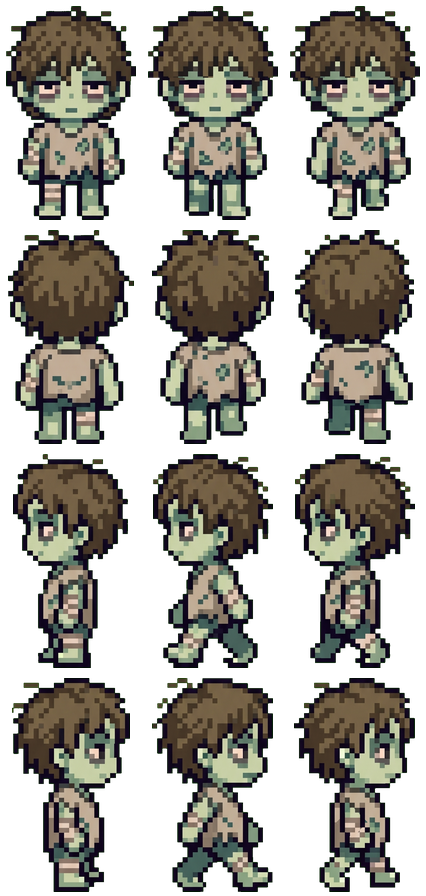
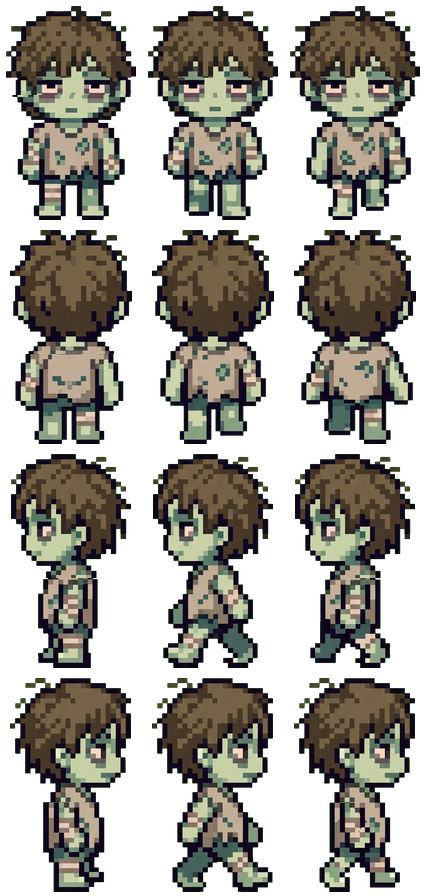
fix(hidden): 좀비 머리카락이 프레임마다 왔다갔다하던 문제 - 머리 고정
대표 지적: 좀비 걸을 때 머리카락이 왔다갔다 한다.

원인 두 가지가 겹침.
1) AI 시트라 프레임마다 머리카락을 다르게 그렸다(삐친 가닥이 생겼다 없어짐).
   실측 머리부 프레임 불일치: 정면 1186 / 뒤 3900 / 옆 2354·2312 픽셀.
   정면은 거의 동일하고 뒤·옆 정수리가 특히 심했다.
2) extract_hidden.py가 셀마다 자기 bbox로 중앙정렬 → 머리카락 한 가닥 때문에
   프레임 전체가 좌우로 밀린다(머리 폭이 프레임 간 최대 9px 흔들림).

- char/freeze_head_frames.py 신규: 3x4 시트의 머리 영역을 기준 프레임 하나로 통일.
  행별 cut을 다르게 준다 — 정면은 팔이 y95 아래에서 흔들려 얕게(95),
  뒤·옆은 팔 움직임이 y150부터라 깊게(130) 잘라도 손해가 없다.
- 좀비 적용 결과: 머리부 불일치 [1186,3900,2354,2312] → [896,168,110,94].
  (896은 정면 팔 흔들림 = 정상) 다리 애니메이션은 그대로 유지됨을 수치로 확인.
- hidden_zombie.png ?v=1 → ?v=2.

※ 교주(cult)·소믈리에(somm)도 같은 증상 있음: 머리부 불일치
  cult [390,788,1642,1356] / somm [844,1142,654,1638]. 대표 확인 후 같은 도구로 처리 예정.
sw v238→v239, cache-bust v20260727014.

diff --git a/index.html b/index.html
@@ -1,5 +1,5 @@
 <!DOCTYPE html>
-<!-- cache-bust: v20260727013 -->
+<!-- cache-bust: v20260727014 -->
 <html lang="ko">
 <head>
 <meta charset="UTF-8">
@@ -2002,7 +2002,7 @@ window._CHAR_BODIES = {
   // 히든 3종(고정 캐릭터). 해금=users.hiddenChars, 소유 판정은 mwHasHidden. 실제 발동/연출은 mwEvalHidden/mwHiddenReveal.
   cult:   { name: '요일교 교주',   src: "char/hidden_cult.png?v=1",   cw: 135, ch: 224, hidden: true, limited: true, tag: '히든' },
   somm:   { name: '헬스장 소믈리에', src: "char/hidden_somm.png?v=1",   cw: 133, ch: 224, hidden: true, limited: true, tag: '히든' },
-  zombie: { name: '작심삼일 좀비',  src: "char/hidden_zombie.png?v=1", cw: 142, ch: 224, hidden: true, limited: true, tag: '히든' }
+  zombie: { name: '작심삼일 좀비',  src: "char/hidden_zombie.png?v=2", cw: 142, ch: 224, hidden: true, limited: true, tag: '히든' }
 };
 window.CHAR_ITEMS = [
   // 헤어: hatVariants = 모자 착용 시 대체 시트(푹 눌러쓴 비니 밖으로 뒷머리만 빼꼼). null = 완전히 숨김(짧은 머리)

diff --git a/sw.js b/sw.js
@@ -1,7 +1,7 @@
 // 배포마다 이 버전을 올려야 자동 새버전 적용(새로고침)이 동작함
-const CACHE_NAME = 'murpy-v238';
-const STATIC_CACHE = 'murpy-static-v238';
-const CDN_CACHE = 'murpy-cdn-v238';
+const CACHE_NAME = 'murpy-v239';
+const STATIC_CACHE = 'murpy-static-v239';
+const CDN_CACHE = 'murpy-cdn-v239';
 // 이미지 캐시는 버전 안 붙임 → 코드/HTML 배포해도 유지(URL이 곧 버전)
 const IMG_CACHE = 'murpy-img';
 

diff --git a/char/freeze_head_frames.py b/char/freeze_head_frames.py
@@ -1,0 +1,95 @@
+# -*- coding: utf-8 -*-
+"""3x4 걷기 시트에서 '머리(윗부분)'를 기준 프레임 하나로 고정한다.
+
+왜 필요한가:
+  AI가 만든 도트 시트는 프레임마다 머리카락을 조금씩 다르게 그린다. 삐친 머리 한 가닥이
+  생겼다 없어지면서 재생 시 머리가 왔다갔다 한다(대표 지적 7-27, 좀비). 게다가 extract_hidden.py는
+  셀마다 자기 bbox로 중앙정렬하므로, 그 한 가닥 때문에 프레임 전체가 좌우로 밀리기까지 한다.
+  → 머리 영역만 한 프레임으로 통일하면 흔들림이 사라지고, 아래(팔·다리)는 그대로 움직인다.
+
+자르는 높이(cut)는 행마다 다르게 준다:
+  정면(row0)은 팔이 y95 아래에서 흔들리므로 얕게(95), 뒤·옆(row1~3)은 팔 움직임이 y150부터라
+  깊게(130) 잘라도 손해가 없다. 깊게 자를수록 잔여 흔들림이 준다.
+  좀비 실측: 머리부 불일치 [1186,3900,2354,2312] → cut[95,130,130,130]에서 [896,168,110,94].
+  (row0의 896은 정면 팔 흔들림 = 정상 애니메이션이라 남겨야 한다)
+
+사용:
+  python char/freeze_head_frames.py char/hidden_zombie.png 142 --cuts 95,130,130,130 --ref 1
+  --dry 를 붙이면 저장하지 않고 수치만 본다.
+
+주의: 이 파일을 PowerShell로 고치지 말 것 — 한글 주석이 깨진다(Write 도구로 편집).
+"""
+import argparse
+
+from PIL import Image
+
+CH = 224          # 한 행(캐릭터) 높이. build_walk.py와 동일 규격
+COLS, ROWS = 3, 4
+
+
+def mismatch(img, cw, r, y0, y1):
+    """행 r의 y0~y1에서 세 프레임 실루엣이 서로 다른 픽셀 수(= 흔들림 지표)."""
+    px = img.load()
+    d = 0
+    for y in range(y0, y1):
+        for x in range(cw):
+            a = px[x, r * CH + y]
+            b = px[cw + x, r * CH + y]
+            c = px[2 * cw + x, r * CH + y]
+            for p, q in ((a, b), (a, c), (b, c)):
+                if (p[3] > 80) != (q[3] > 80):
+                    d += 1
+    return d
+
+
+def freeze(img, cw, cuts, ref):
+    out = img.copy()
+    for r in range(ROWS):
+        cut = cuts[r]
+        if cut <= 0:
+            continue
+        head = img.crop((ref * cw, r * CH, ref * cw + cw, r * CH + cut))
+        for c in range(COLS):
+            if c == ref:
+                continue
+            # 대상 프레임의 머리 영역을 비우고 기준 머리를 얹는다(알파를 덮어써야 잔상이 안 남는다)
+            out.paste((0, 0, 0, 0), (c * cw, r * CH, c * cw + cw, r * CH + cut))
+            out.paste(head, (c * cw, r * CH))
+    return out
+
+
+def main():
+    ap = argparse.ArgumentParser()
+    ap.add_argument('sheet')
+    ap.add_argument('cw', type=int, help='셀 가로 폭(index.html _CHAR_BODIES의 cw와 같아야 함)')
+    ap.add_argument('--cuts', default='95,130,130,130', help='행별 고정 높이(4개, 0이면 그 행은 건드리지 않음)')
+    ap.add_argument('--ref', type=int, default=1, help='기준 프레임 인덱스(기본 1=가운데)')
+    ap.add_argument('--dry', action='store_true')
+    a = ap.parse_args()
+
+    cuts = [int(v) for v in a.cuts.split(',')]
+    assert len(cuts) == ROWS, 'cuts는 4개여야 합니다'
+
+    im = Image.open(a.sheet).convert('RGBA')
+    w, h = im.size
+    assert h == CH * ROWS, '시트 높이가 %d가 아닙니다: %d' % (CH * ROWS, h)
+    assert w >= a.cw * COLS, '시트 폭(%d)이 cw*3(%d)보다 작습니다' % (w, a.cw * COLS)
+
+    before = [mismatch(im, a.cw, r, 0, 140) for r in range(ROWS)]
+    out = freeze(im, a.cw, cuts, a.ref)
+    after = [mismatch(out, a.cw, r, 0, 140) for r in range(ROWS)]
+    legs = [mismatch(out, a.cw, r, 140, 220) for r in range(ROWS)]
+    print('머리부 불일치  전: %s' % before)
+    print('머리부 불일치  후: %s   (0에 가까울수록 안 흔들림)' % after)
+    print('다리부 움직임 유지: %s   (이 값은 그대로여야 정상)' % legs)
+
+    if a.dry:
+        print('--dry 이므로 저장하지 않음')
+        return
+    # 원본 백업은 두지 않는다 — git이 곧 백업이다(되돌리려면 git checkout).
+    out.save(a.sheet)
+    print('저장: %s  → index.html의 ?v= 를 올려야 앱에 반영됩니다' % a.sheet)
+
+
+if __name__ == '__main__':
+    main()
